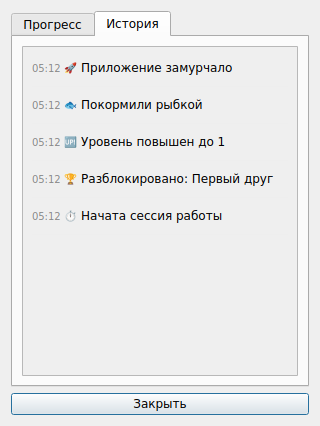
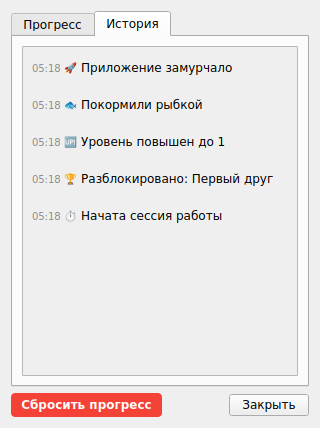
✨ Complete: Реализация функции сброса прогресса во всех слоях приложения
- Добавлен метод `reset_all_data()` в класс `DataStore` для очистки БД.
- Добавлен метод `reset_all_data()` в класс `InputManager` для обнуления runtime-счетчиков и кэша в оперативной памяти.
- Внедрена стильная кнопка «Сбросить прогресс» с подтверждением через `QMessageBox` в `StatsDialog`.
- Написаны подробные юнит-тесты для верификации логики очистки.
- Добавлена запись в журнал .jules/bolt.md.

diff --git a/src/ui/stats_dialog.py b/src/ui/stats_dialog.py
@@ -35,10 +35,69 @@ class StatsDialog(QDialog):
         self.update_timer.timeout.connect(self.update_ui)
         self.update_timer.start(500) # Обновление каждые 500мс
 
+        # Горизонтальный макет для кнопок внизу
+        btn_layout = QHBoxLayout()
+
+        # Кнопка сброса прогресса
+        self.reset_btn = QPushButton("Сбросить прогресс")
+        self.reset_btn.setStyleSheet("""
+            QPushButton {
+                background-color: #f44336;
+                color: white;
+                font-weight: bold;
+                border: none;
+                border-radius: 4px;
+                padding: 5px 10px;
+            }
+            QPushButton:hover {
+                background-color: #d32f2f;
+            }
+            QPushButton:pressed {
+                background-color: #b71c1c;
+            }
+        """)
+        self.reset_btn.clicked.connect(self.reset_progress)
+        btn_layout.addWidget(self.reset_btn)
+
+        btn_layout.addStretch()
+
         # Кнопка закрытия
         close_btn = QPushButton("Закрыть")
         close_btn.clicked.connect(self.accept)
-        main_layout.addWidget(close_btn)
+        btn_layout.addWidget(close_btn)
+
+        main_layout.addLayout(btn_layout)
+
+    def reset_progress(self):
+        from PySide6.QtWidgets import QMessageBox
+
+        reply = QMessageBox.question(
+            self,
+            "Сбросить прогресс",
+            "Вы уверены, что хотите сбросить весь прогресс, достижения и историю активности? Это действие необратимо.",
+            QMessageBox.Yes | QMessageBox.No,
+            QMessageBox.No
+        )
+
+        if reply == QMessageBox.Yes:
+            im = None
+            if self.parent() and hasattr(self.parent(), 'input_manager') and self.parent().input_manager:
+                im = self.parent().input_manager
+
+            if im:
+                im.reset_all_data()
+            else:
+                self.db.reset_all_data()
+
+            # Мгновенно перерисовываем обе вкладки интерфейса в реальном времени
+            self.update_progress_ui()
+            self.update_history_ui()
+
+            QMessageBox.information(
+                self,
+                "Успех",
+                "Прогресс успешно сброшен!"
+            )
 
     def update_ui(self):
         self.update_progress_ui()

diff --git a/tests/test_utils.py b/tests/test_utils.py
@@ -412,5 +412,59 @@ class TestUtils(unittest.TestCase):
         am.current_fps = 15
         self.assertEqual(am.current_fps, 15)
 
+    def test_data_store_reset_all_data(self):
+        db = DataStore(self.db_path)
+        db.add_affection_points(150)
+        db.set_stat("total_clicks", 500)
+        db.add_achievement("first_friend")
+        db.log_event("feeding", "Котик поел")
+
+        self.assertEqual(db.get_affection_points(), 150)
+        self.assertEqual(db.get_stat("total_clicks"), 500)
+        self.assertEqual(len(db.get_unlocked_achievements()), 1)
+
+        db.reset_all_data()
+
+        self.assertEqual(db.get_affection_points(), 0)
+        self.assertEqual(db.get_stat("total_clicks"), 0)
+        self.assertEqual(len(db.get_unlocked_achievements()), 0)
+
+        recent = db.get_recent_activity(10)
+        self.assertEqual(len(recent), 1)
+        self.assertEqual(recent[0][2], "reset_progress")
+
+        db.close()
+
+    def test_input_manager_reset_all_data(self):
+        mock_window = MagicMock()
+        mock_cursor = MagicMock()
+        mock_cursor.pos.return_value = QPoint(100, 100)
+        mock_window.cursor.return_value = mock_cursor
+
+        db = DataStore(self.db_path)
+        im = InputManager(mock_window, db)
+
+        # Симулируем активность
+        im.last_affection_points = 50
+        im.pending_points = 10
+        im.pending_stats["total_clicks"] = 100
+        im.max_kps = 25
+        im.unlocked_achievements = ["first_friend"]
+        im.points_time_accumulator = 1.5
+        im.work_time_accumulator = 1.5
+
+        im.reset_all_data()
+
+        self.assertEqual(im.last_affection_points, 0)
+        self.assertEqual(im.pending_points, 0)
+        self.assertEqual(im.pending_stats["total_clicks"], 0)
+        self.assertEqual(im.max_kps, 0)
+        self.assertEqual(im.unlocked_achievements, [])
+        self.assertEqual(im.points_time_accumulator, 0.0)
+        self.assertEqual(im.work_time_accumulator, 0.0)
+        self.assertEqual(im.stats_cache.get("bonding_points", 0), 0)
+
+        db.close()
+
 if __name__ == '__main__':
     unittest.main()

diff --git a/src/core/input_manager.py b/src/core/input_manager.py
@@ -270,6 +270,34 @@ class InputManager(QObject):
 
         self.stats_cache["max_kps"] = self.max_kps
 
+    def reset_all_data(self):
+        """Полный сброс всех данных в БД и в памяти (runtime-счетчиков)."""
+        if not self.db:
+            return
+
+        # 1. Сбрасываем данные в БД
+        self.db.reset_all_data()
+
+        # 2. Обнуляем runtime-счетчики и аккумуляторы в оперативной памяти
+        self.last_affection_points = 0
+        self.pending_points = 0
+        self.pending_stats = {
+            "total_clicks": 0,
+            "work_seconds": 0,
+            "cursor_catches": 0,
+            "total_feedings": 0,
+            "pomodoros_completed": 0,
+            "petting_count": 0,
+            "shakes_count": 0
+        }
+        self.max_kps = 0
+        self.total_clicks_cache = 0
+        self.unlocked_achievements = []
+        self.stats_cache = self.db.get_all_stats() # Загружаем обновленные (сброшенные) значения из БД
+
+        self.points_time_accumulator = 0.0
+        self.work_time_accumulator = 0.0
+
     def add_shake(self):
         """Регистрирует встряхивание котика."""
         self.pending_stats["shakes_count"] += 1

diff --git a/src/utils/data_store.py b/src/utils/data_store.py
@@ -154,6 +154,24 @@ class DataStore:
         cursor.execute('SELECT id FROM achievements')
         return [row[0] for row in cursor.fetchall()]
 
+    def reset_all_data(self):
+        """Полная очистка всех таблиц в БД и сброс статистик."""
+        if not self.conn:
+            self.init_db()
+        cursor = self.conn.cursor()
+        try:
+            cursor.execute('DELETE FROM achievements')
+            cursor.execute('DELETE FROM activity_log')
+            cursor.execute('UPDATE stats SET value = 0')
+            cursor.execute(
+                'INSERT INTO activity_log (event_type, description) VALUES (?, ?)',
+                ("reset_progress", "Прогресс пользователя сброшен")
+            )
+            self.conn.commit()
+        except Exception as e:
+            self.conn.rollback()
+            print(f"Error in reset_all_data: {e}")
+
     def close(self):
         """Закрывает соединение с базой данных."""
         if self.conn:

diff --git a/.jules/bolt.md b/.jules/bolt.md
@@ -52,3 +52,7 @@ if is_visible:
 ## 2026-07-13 - [Transient Parameters for Interactive Dialogue Previews]
 **Инсайт:** Реализация интерактивного превью в диалогах настроек (например, воспроизведение звукового сигнала при изменении громкости) без сохранения настроек в постоянную конфигурацию требует использования временных параметров, передаваемых непосредственно в методы менеджеров. Попытка перезаписать значение в глобальном ConfigManager до нажатия кнопки "Сохранить" нарушает возможность отмены изменений (Cancel/Reject), загрязняя файл настроек.
 **Действие:** Реализовать поддержку опциональных временных аргументов (таких как `volume` в `SoundManager.play_sound`), чтобы воспроизводить превью с актуальным уровнем громкости напрямую из слайдера, минуя перезапись в `ConfigManager` до подтверждения диалога.
+
+## 2026-07-14 - [End-to-End Progress Reset and State Synchronization]
+**Инсайт:** Реализация полного сброса прогресса во всех слоях приложения требует скоординированной очистки: не только очистки БД SQLite (таблиц достижений, логов событий и сброса статистик), но и мгновенного обнуления в памяти (активных runtime-накопителей времени и очков привязанности в `InputManager`), иначе при следующем автоматическом/ручном сохранении (`flush_all`) устаревшие данные из ОЗУ перезапишут очищенную базу. Мгновенная перерисовка вкладок `StatsDialog` после сброса обеспечивает идеальный UX.
+**Действие:** При сбросе прогресса всегда вызывать очистку БД и параллельно обнулять все in-memory переменные, аккумуляторы времени/очков и кэш статистик, а затем незамедлительно вызывать методы обновления UI на active диалоговых окнах.
